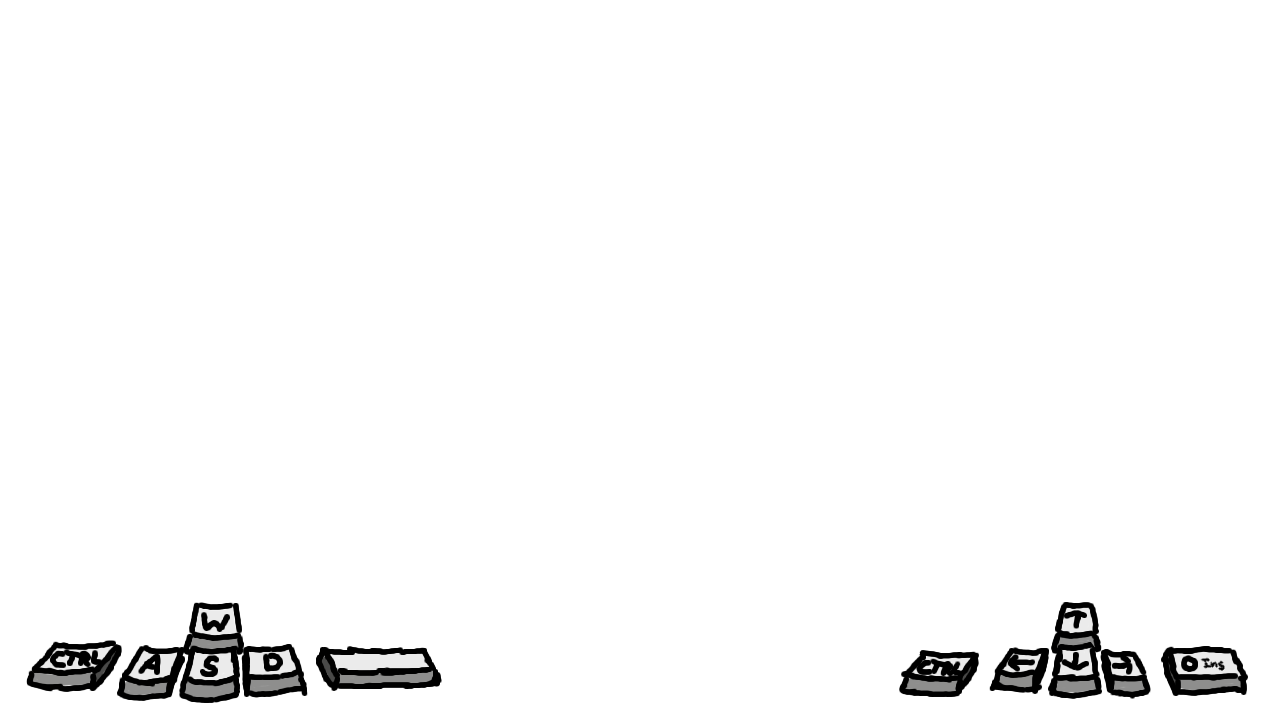
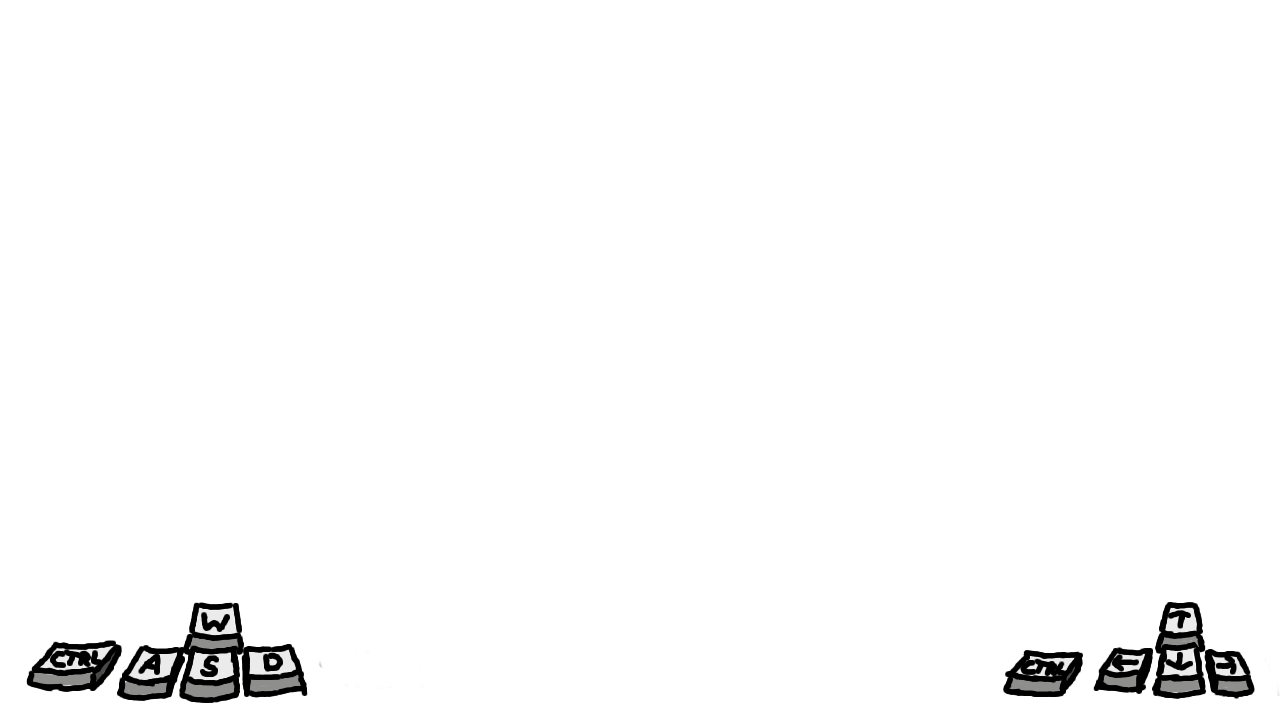
Jump key rebind and tweaking

Changed region(s): [[0.6875, 0.825, 1.0, 0.9778], [0.25, 0.8861, 0.3438, 0.9778]]

diff --git a/src/main/java/net/tobyp/ld31/StateFight.java b/src/main/java/net/tobyp/ld31/StateFight.java
@@ -136,8 +136,8 @@ public class StateFight extends BasicGameState implements InputListener {
 
     @Override
     public void enter(GameContainer gameContainer, StateBasedGame stateBasedGame) throws SlickException {
-        p1_control = new KeyboardEntityController(left, Input.KEY_A, Input.KEY_D, Input.KEY_SPACE, Input.KEY_LCONTROL);
-        p2_control = new KeyboardEntityController(right, Input.KEY_LEFT, Input.KEY_RIGHT, Input.KEY_NUMPAD0, Input.KEY_RCONTROL);
+        p1_control = new KeyboardEntityController(left, Input.KEY_A, Input.KEY_D, Input.KEY_W, Input.KEY_LCONTROL);
+        p2_control = new KeyboardEntityController(right, Input.KEY_LEFT, Input.KEY_RIGHT, Input.KEY_UP, Input.KEY_RCONTROL);
         gameContainer.getInput().addKeyListener(p1_control);
         gameContainer.getInput().addKeyListener(p2_control);
     }

diff --git a/src/main/java/net/tobyp/ld31/StateSelection.java b/src/main/java/net/tobyp/ld31/StateSelection.java
@@ -19,7 +19,7 @@ public class StateSelection extends BasicGameState {
     private Char[] characters;
     private int arena_index = 0;
     private Arena[] arenae;
-    
+
     private SpriteSheet frame_sprites;
     private SpriteSheet hub_eyes;
     private Image bg_pattern;

diff --git a/src/main/java/net/tobyp/ld31/ent/Entity.java b/src/main/java/net/tobyp/ld31/ent/Entity.java
@@ -100,6 +100,7 @@ public class Entity {
     public void jump() {
         if (jumps < 2) {
             jumps++;
+            bounce_time = 0.f;
             vel = vel.withY(-character.getJumpPower());
             GameSound.JUMP.play(1, 1);
         }

diff --git a/README.md b/README.md
@@ -14,8 +14,8 @@ Clayball Fighter, based on the original Polandball comics (http://www.reddit.com
 
 ## Controls
 
-- Left: WASD for movement, Left CTRL to choose/attack, Space to jump
-- Right: Arrow keys for movement, Right CTRL to choose/attack, Numpad 0 to jump (try numlock if it doesn't work)
+- Left: WASD for movement, Left CTRL to choose/attack
+- Right: Arrow keys for movement, Right CTRL to choose/attack
 
 ## Wishlist
 
